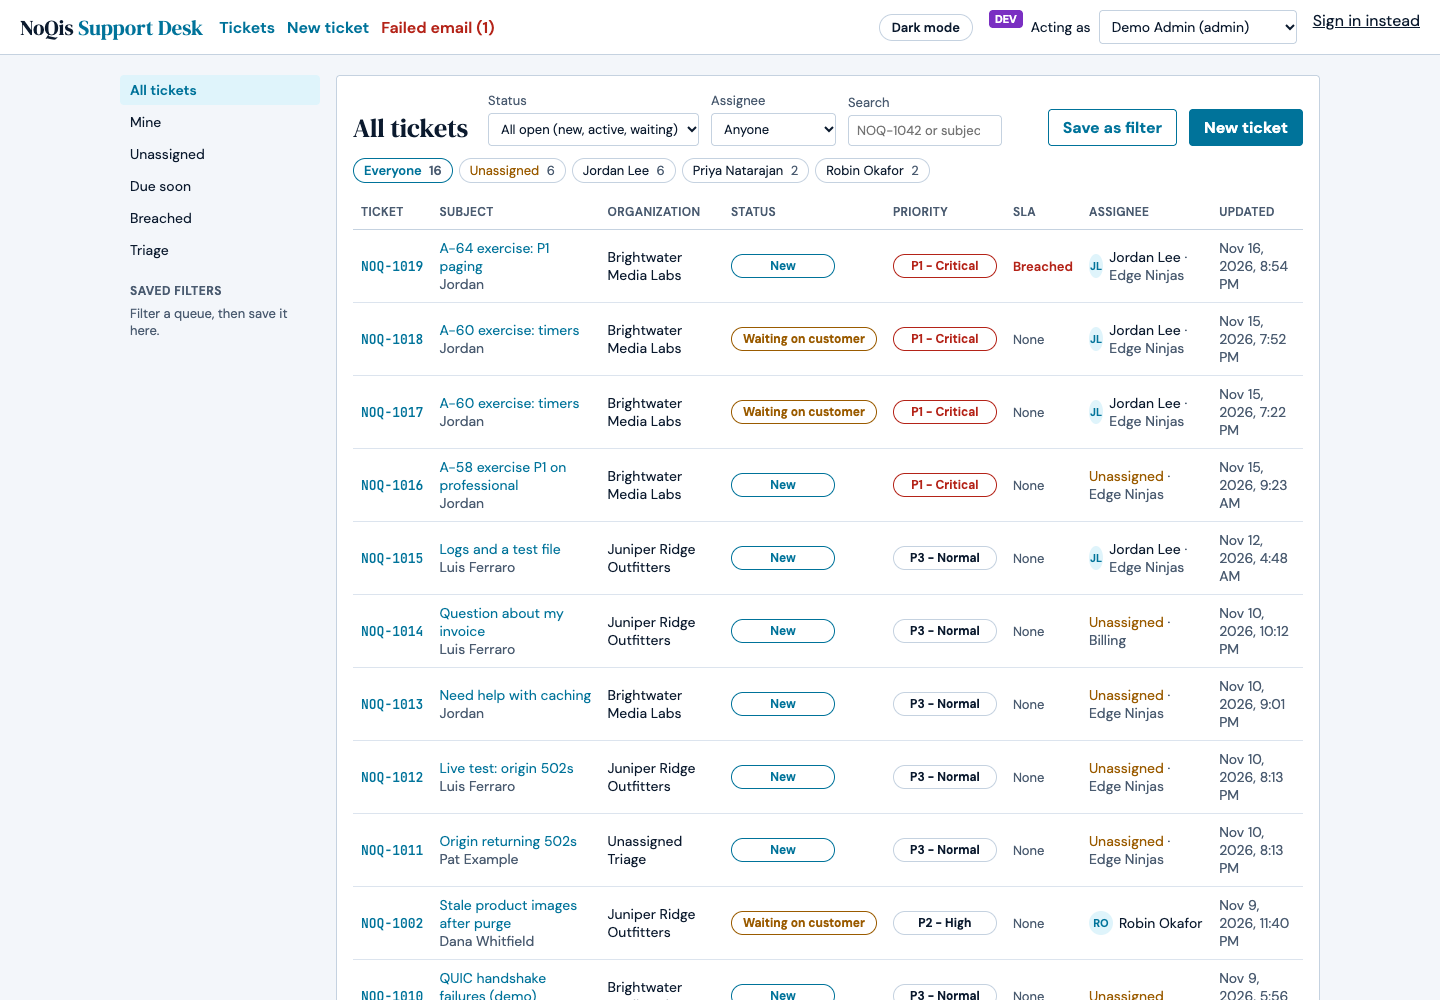
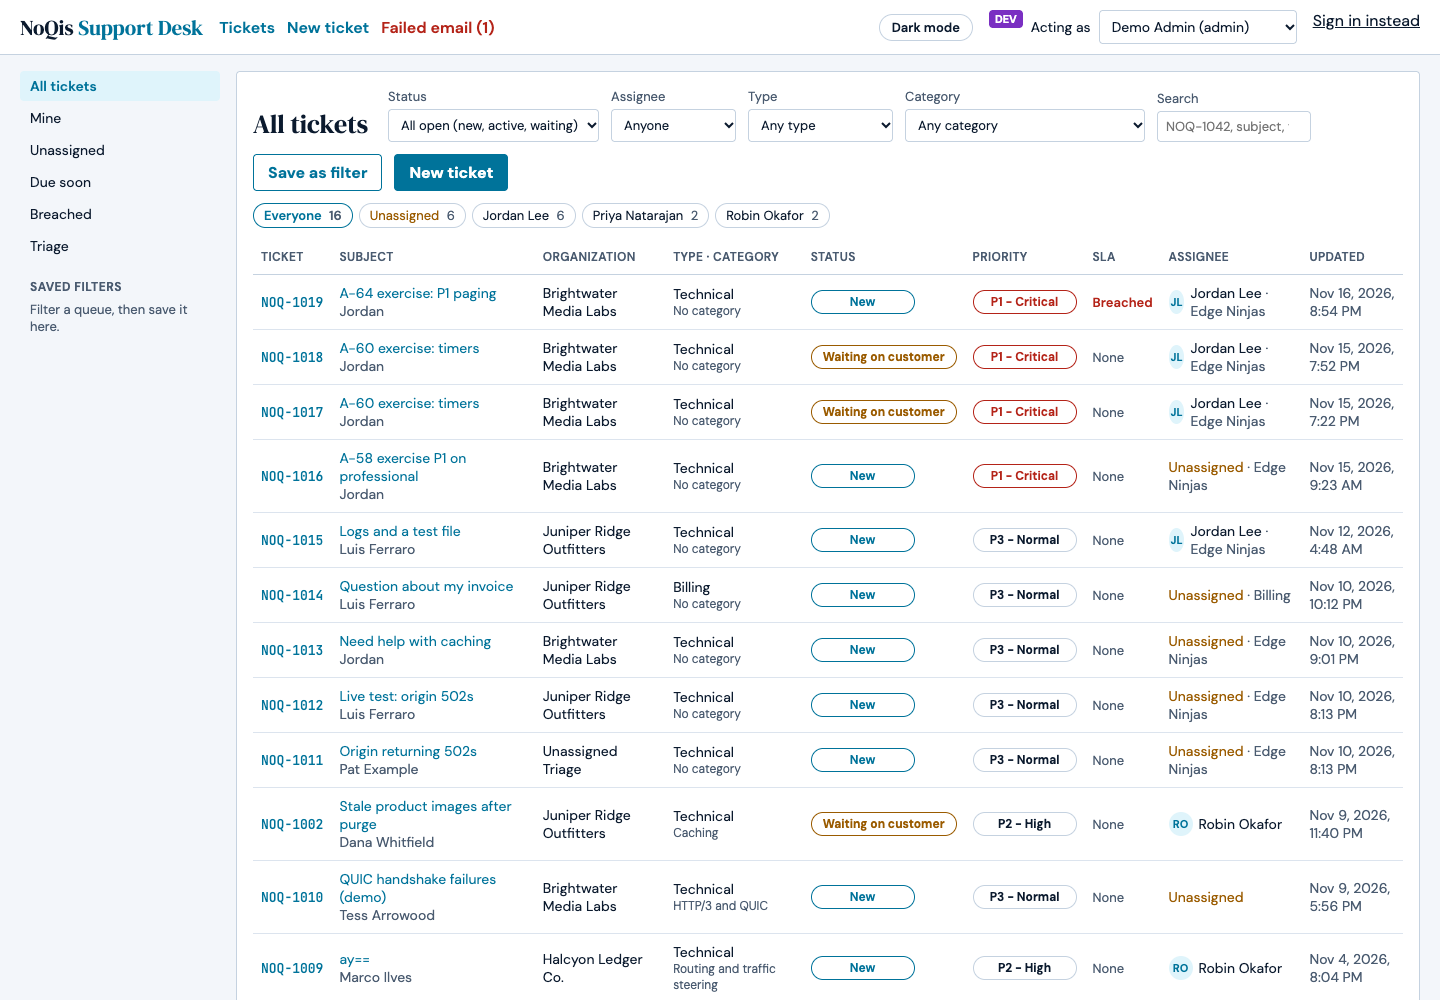
Show type and category filters and pickers, and the full-width console
New screenshots of the full-width console, the type and category
filters and pickers in the screen notes, a decision card for them, and
updated facts (1,072 tests, 54 plan tasks, 52 pull requests) and Phase
4 progress (7 of 19). All data shown is invented.

diff --git a/index.html b/index.html
@@ -165,17 +165,18 @@ footer { color: var(--muted); font-size: 14px; border-top: 1px solid var(--line)
     </div>
     <h1>NoQis Support Desk: email, SLA timers, and an agent console in the NoQis look</h1>
     <p class="lede">Phases 0 to 3 are built: the ticket core, email in and out, and SLA timers with on-call paging.
-      Phase 4, the agent console, is a third done. Agents work from queues with live SLA countdowns, see a ticket's
+      Phase 4, the agent console, is over a third done. Agents work from full-width queues with live SLA countdowns,
+      filter and change tickets by type and category, see a ticket's
       customer, related tickets, and origin health beside the conversation, and use the NoQis branding in dark mode,
       with a light mode for anyone who prefers it. Every change still lands in Postgres with its timeline entry and an
       audit entry that can't be edited after the fact.</p>
     <div class="facts" role="list">
-      <div class="fact" role="listitem"><b>1,067 / 1,067</b><span>tests passing, on Postgres 17 and 18</span></div>
-      <div class="fact" role="listitem"><b>53</b><span>plan tasks done</span></div>
+      <div class="fact" role="listitem"><b>1,072 / 1,072</b><span>tests passing, on Postgres 17 and 18</span></div>
+      <div class="fact" role="listitem"><b>54</b><span>plan tasks done</span></div>
       <div class="fact" role="listitem"><b>53</b><span>database migrations</span></div>
       <div class="fact" role="listitem"><b>0</b><span>open security scan failures</span></div>
     </div>
-    <p>Work is merged into <span class="mono">main</span> through pull requests, 51 so far, each passing GitHub Actions
+    <p>Work is merged into <span class="mono">main</span> through pull requests, 52 so far, each passing GitHub Actions
       CI on PostgreSQL 17 and 18. Before every commit the change also passes scans for leaked secrets, vulnerable
       packages, and OWASP code rules, plus an active OWASP ZAP attack scan of the whole agent API. The riskiest
       changes get an independent security review, and every finding is fixed with a test.</p>
@@ -264,14 +265,14 @@ footer { color: var(--muted); font-size: 14px; border-top: 1px solid var(--line)
       <div class="phase"><div class="name">Phase 1<small>Ticket core · done</small></div><div class="meter" role="img" aria-label="13 of 13 tasks"><i style="width:100%"></i></div><span class="pill done">13 / 13</span></div>
       <div class="phase"><div class="name">Phase 2<small>Email · staging test waits</small></div><div class="meter" role="img" aria-label="13 of 14 tasks"><i style="width:93%"></i></div><span class="pill done">13 / 14</span></div>
       <div class="phase"><div class="name">Phase 3<small>SLA timers · staging test waits</small></div><div class="meter" role="img" aria-label="8 of 8 tasks"><i style="width:100%"></i></div><span class="pill done">8 / 8</span></div>
-      <div class="phase here"><div class="name">Phase 4<small>Agent console · now</small></div><div class="meter" role="img" aria-label="6 of 19 tasks"><i style="width:32%"></i></div><span class="pill todo">6 / 19</span></div>
+      <div class="phase here"><div class="name">Phase 4<small>Agent console · now</small></div><div class="meter" role="img" aria-label="7 of 19 tasks"><i style="width:37%"></i></div><span class="pill todo">7 / 19</span></div>
       <div class="phase"><div class="name">Phase 5<small>Widget and portal</small></div><div class="meter" role="img" aria-label="0 of 12 tasks"><i style="width:0%"></i></div><span class="pill todo">0 / 12</span></div>
       <div class="phase"><div class="name">Phase 6<small>Launch</small></div><div class="meter" role="img" aria-label="0 of 9 tasks"><i style="width:0%"></i></div><span class="pill todo">0 / 9</span></div>
     </div>
     <p class="later">Phases 2 and 3 are built and merged; their last sign-off steps run in staging, which waits on
       hosting and DNS. Phase 4 has done sessions, queues, the ticket view, the NoQis look with light mode, the ticket
-      panels, and CDN providers. Two items were added to it this week: filtering and changing tickets by type and
-      category, and moving tickets to any team's queue, including a new Dev team. Phase 5 changed too: customers will
+      panels, CDN providers, and filtering and changing tickets by type and category, with a full-width layout. Next
+      on its list: moving tickets to any team's queue, including a new Dev team. Phase 5 changed too: customers will
       sign in on the NoQis website and reach support from there, with no separate support login.</p>
   </section>
 
@@ -299,7 +300,8 @@ footer { color: var(--muted); font-size: 14px; border-top: 1px solid var(--line)
       <div class="rule"><h3>CDN providers</h3><p class="how">Fastly, Akamai, and Cloudflare are a list admins manage. Each customer's CDNs are recorded, and a technical ticket's Affected CDN fills itself in when there is only one.</p><span class="where">A-35 · A-69</span></div>
       <div class="rule"><h3>Billing stays separate</h3><p class="how">Invoices, accounts, and customer records stay in the billing and CRM system. The desk holds no billing data and does not connect to it for now.</p><span class="where">A-68</span></div>
       <div class="rule"><h3>Website sign-in</h3><p class="how">Customers sign in on the NoQis website's portal and reach support from there. The desk builds no customer login of its own; agents keep their own sign-in.</p><span class="where">D-14 · A-70</span></div>
-      <div class="rule"><h3>Any team's queue</h3><p class="how">Agents will be able to move a ticket to any team: Edge Ninjas, Billing, Escalations, or a new Dev team, and filter and change tickets by type and category.</p><span class="where">A-70</span></div>
+      <div class="rule"><h3>Type and category</h3><p class="how">Agents filter, search, and change tickets by type and category. A new type always gets a category from its own list. The console now uses the full screen width.</p><span class="where">A-70 · A-71</span></div>
+      <div class="rule"><h3>Any team's queue</h3><p class="how">Next: agents will be able to move a ticket to any team: Edge Ninjas, Billing, Escalations, or a new Dev team.</p><span class="where">A-70</span></div>
     </div>
   </section>
 
@@ -321,7 +323,7 @@ pnpm db:verify-audit  <span class="c"># afterward: check the audit chain</span><
       <ul class="checks">
         <li><input type="checkbox" id="c1"><label for="c1">Sign in with an invite link and an authenticator app, or switch agents with the purple DEV control.</label></li>
         <li><input type="checkbox" id="c2"><label for="c2">Click through the queues on the left: Mine, Unassigned, Due soon, Breached, and Triage.</label></li>
-        <li><input type="checkbox" id="c3"><label for="c3">Filter a queue, then save it as a filter. It appears under Saved filters.</label></li>
+        <li><input type="checkbox" id="c3"><label for="c3">Filter by Type and Category, then save it as a filter. It appears under Saved filters.</label></li>
         <li><input type="checkbox" id="c4"><label for="c4">Click a row for the side pane, then open the full ticket.</label></li>
         <li><input type="checkbox" id="c5"><label for="c5">On a ticket, read the Customer, Related tickets, and Origin health panels. Fold one away and reload.</label></li>
         <li><input type="checkbox" id="c6"><label for="c6">Switch to Light mode in the top bar, then back to dark.</label></li>
@@ -342,11 +344,13 @@ pnpm db:verify-audit  <span class="c"># afterward: check the audit chain</span><
 <script>
 const shots = {
   list: { src: "screenshots/ticket-list.png", url: "127.0.0.1:5173/#/queue/all", h: 1000, alt: "The All tickets queue in the dark NoQis look, with queue buttons on the left, filters, people chips, and a list with status, priority, SLA, and assignee",
-    notes: [["Queues", "All tickets, Mine, Unassigned, Due soon, Breached, and Triage on the left, with counts, plus each agent's saved filters."],
+    notes: [["Queues", "All tickets, Mine, Unassigned, Due soon, Breached, and Triage at the left edge, plus each agent's saved filters."],
+            ["Type and category", "Filter by type and category; the category list narrows to the chosen type. Search finds category names too."],
             ["Workload", "Chips show open tickets per person, unassigned first. Click one to filter the list."],
             ["SLA at a glance", "Each row shows when its next SLA target is due, or that it breached. Click a row for a side pane of the latest updates."]] },
   ticket: { src: "screenshots/ticket-page.png", url: "127.0.0.1:5173/#/tickets/NOQ-1002", h: 1800, alt: "A ticket page with the conversation and reply box, and on the right the Ticket, SLA, Customer, Related tickets, and Origin health panels",
     notes: [["Conversation", "Customer messages, public replies, and internal notes, which are dashed and marked so they're never mistaken for replies."],
+            ["Type and category", "Pickers in the Ticket card. A new type asks for a matching category before it saves."],
             ["Customer panel", "The contact, whether their email is verified, the company's plan, SLA policy, and CDNs, and their other open tickets."],
             ["Related tickets", "Similar tickets from the same company only, found by plain text search, never AI."],
             ["Origin health", "Clearly labeled sample results until NoQis monitoring is connected. The desk never contacts customer servers."]] },

diff --git a/README.md b/README.md
@@ -2,7 +2,8 @@
 
 A one-page visual summary of the NoQis Support Desk, the email-driven ticketing system for NoQis CDN support. Phases 0
 to 3 (foundations, the ticket core, email, and SLA timers with on-call paging) are built. Phase 4, the agent console,
-is underway: queues, the ticket view, the NoQis look with a light mode, the ticket panels, and CDN providers are done.
+is underway: queues, the ticket view, the NoQis look with a light mode, the ticket panels, CDN providers, and type
+and category filters and pickers are done.
 
 Open `index.html` in a browser. It shows:
 
@@ -14,6 +15,6 @@ Open `index.html` in a browser. It shows:
 - The decisions made so far
 
 The application code lives in [noqis-ticketing-system](https://github.com/shensabo1/noqis-ticketing-system), a private
-repository, merged through pull requests (51 so far). Last updated November 18, 2026.
+repository, merged through pull requests (52 so far). Last updated November 18, 2026.
 
 All organizations, people, and tickets shown are invented sample data.
